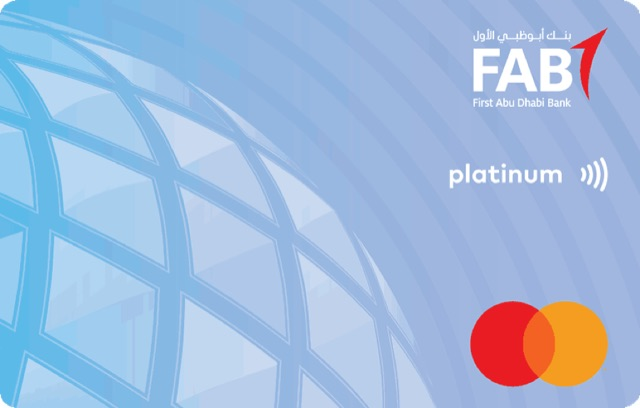
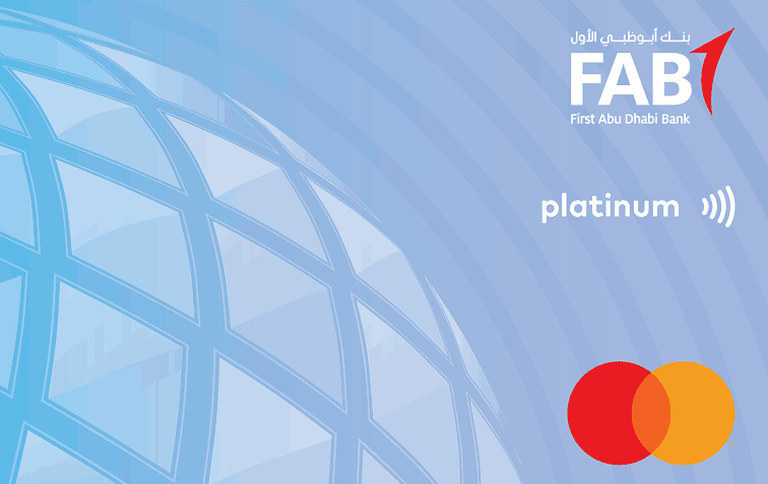
cards: use larger official FAB artwork

diff --git a/tools/cards/normalize.py b/tools/cards/normalize.py
@@ -1,0 +1,108 @@
+#!/usr/bin/env python3
+"""Normalize Ghaf's card artwork and build a dark contact sheet.
+
+Run with: python3 tools/cards/normalize.py
+Requires Pillow: python3 -m pip install Pillow
+"""
+
+from __future__ import annotations
+
+import argparse
+import json
+from pathlib import Path
+
+from PIL import Image, ImageDraw, ImageFont, ImageOps
+from PIL import ImageCms
+
+
+ROOT = Path(__file__).resolve().parents[2]
+CARDS = ROOT / "Ghaf/Resources/Cards"
+CATALOG = CARDS / "card-catalog.json"
+TARGET_RATIO = 85.60 / 53.98
+NORMALIZED_COMMENT = b"ghaf-cards-normalized-v1"
+
+
+def normalized_crop(image: Image.Image) -> Image.Image:
+    if image.info.get("comment") == NORMALIZED_COMMENT:
+        return image.convert("RGB")
+
+    image = ImageOps.exif_transpose(image).convert("RGBA")
+    background = Image.new("RGBA", image.size, "white")
+    image = Image.alpha_composite(background, image).convert("RGB")
+    width, height = image.size
+    source_width = width
+
+    # Bank pages often bake a white page into the rounded card corners. Crop a
+    # small inset only when a near-white corner shows that treatment.
+    corners = [image.getpixel(point) for point in ((0, 0), (width - 1, 0), (0, height - 1), (width - 1, height - 1))]
+    if any(min(pixel) >= 242 for pixel in corners):
+        inset = max(2, round(min(width, height) * 0.0125))
+        image = image.crop((inset, inset, width - inset, height - inset))
+
+    width, height = image.size
+    if width / height > TARGET_RATIO:
+        crop_width = round(height * TARGET_RATIO)
+        left = (width - crop_width) // 2
+        image = image.crop((left, 0, left + crop_width, height))
+    else:
+        crop_height = round(width / TARGET_RATIO)
+        top = (height - crop_height) // 2
+        image = image.crop((0, top, width, top + crop_height))
+
+    output_width = 1200 if source_width >= 1200 else source_width
+    output_height = round(output_width / TARGET_RATIO)
+    if image.size != (output_width, output_height):
+        image = image.resize((output_width, output_height), Image.Resampling.LANCZOS)
+    return image
+
+
+def contact_sheet(items: list[tuple[str, Image.Image]], path: Path) -> None:
+    columns, tile_width, tile_height, label_height, gap = 6, 190, 120, 30, 12
+    rows = (len(items) + columns - 1) // columns
+    sheet = Image.new("RGB", (gap + columns * (tile_width + gap), gap + rows * (tile_height + label_height + gap)), (25, 26, 29))
+    draw = ImageDraw.Draw(sheet)
+    font = ImageFont.load_default()
+    for index, (name, image) in enumerate(items):
+        x = gap + (index % columns) * (tile_width + gap)
+        y = gap + (index // columns) * (tile_height + label_height + gap)
+        thumb = image.copy()
+        thumb.thumbnail((tile_width, tile_height), Image.Resampling.LANCZOS)
+        tile = Image.new("RGB", (tile_width, tile_height), (42, 43, 47))
+        tile.paste(thumb, ((tile_width - thumb.width) // 2, (tile_height - thumb.height) // 2))
+        sheet.paste(tile, (x, y))
+        label = name.removesuffix(".jpg")
+        draw.text((x, y + tile_height + 4), label[:29], fill=(230, 230, 232), font=font)
+    path.parent.mkdir(parents=True, exist_ok=True)
+    sheet.save(path, "JPEG", quality=88, optimize=True)
+
+
+def main() -> None:
+    parser = argparse.ArgumentParser(description=__doc__)
+    parser.add_argument("--contact-sheet", type=Path, default=Path("/tmp/ghaf-cards-contact-sheet.jpg"))
+    args = parser.parse_args()
+
+    records = json.loads(CATALOG.read_text())
+    images: list[tuple[str, Image.Image]] = []
+    for record in records:
+        path = CARDS / f"{record['id']}.jpg"
+        if not path.is_file():
+            raise FileNotFoundError(f"Catalog image is missing: {path}")
+        with Image.open(path) as source:
+            already_normalized = source.info.get("comment") == NORMALIZED_COMMENT
+            image = normalized_crop(source)
+        if not already_normalized:
+            image.save(path, "JPEG", quality=88, optimize=True, subsampling=0,
+                       icc_profile=ImageCms.ImageCmsProfile(ImageCms.createProfile("sRGB")).tobytes(),
+                       comment=NORMALIZED_COMMENT)
+        images.append((path.name, image))
+
+    contact_sheet(images, args.contact_sheet)
+    small = [(name, image.width) for name, image in images if image.width == 640]
+    print(f"Normalized {len(images)} cards; contact sheet: {args.contact_sheet}")
+    print(f"Still 640px ({len(small)}):")
+    for name, width in small:
+        print(f"  {name}: {width}px")
+
+
+if __name__ == "__main__":
+    main()
